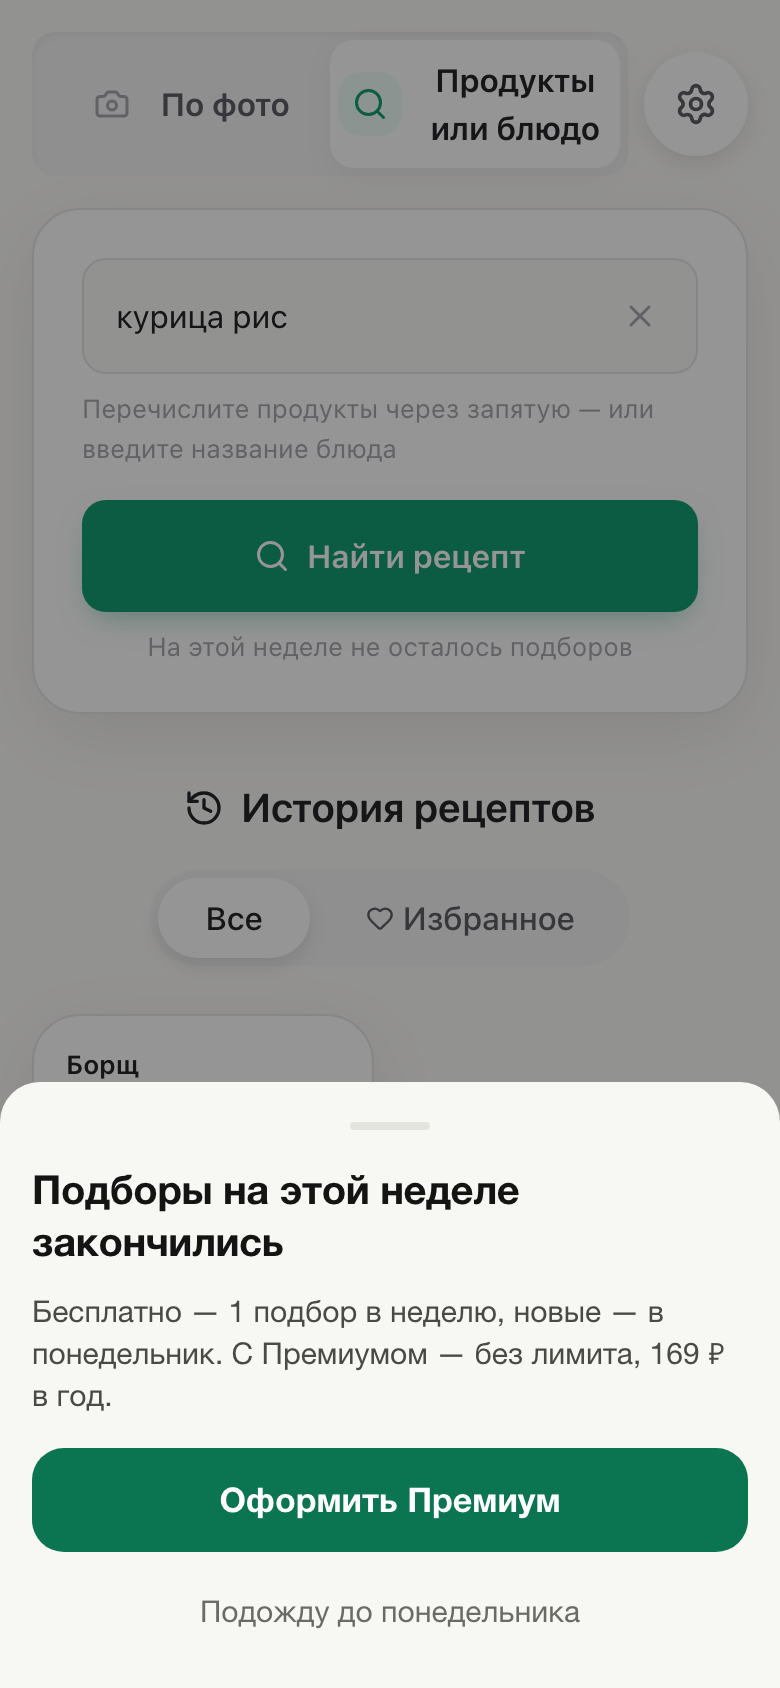
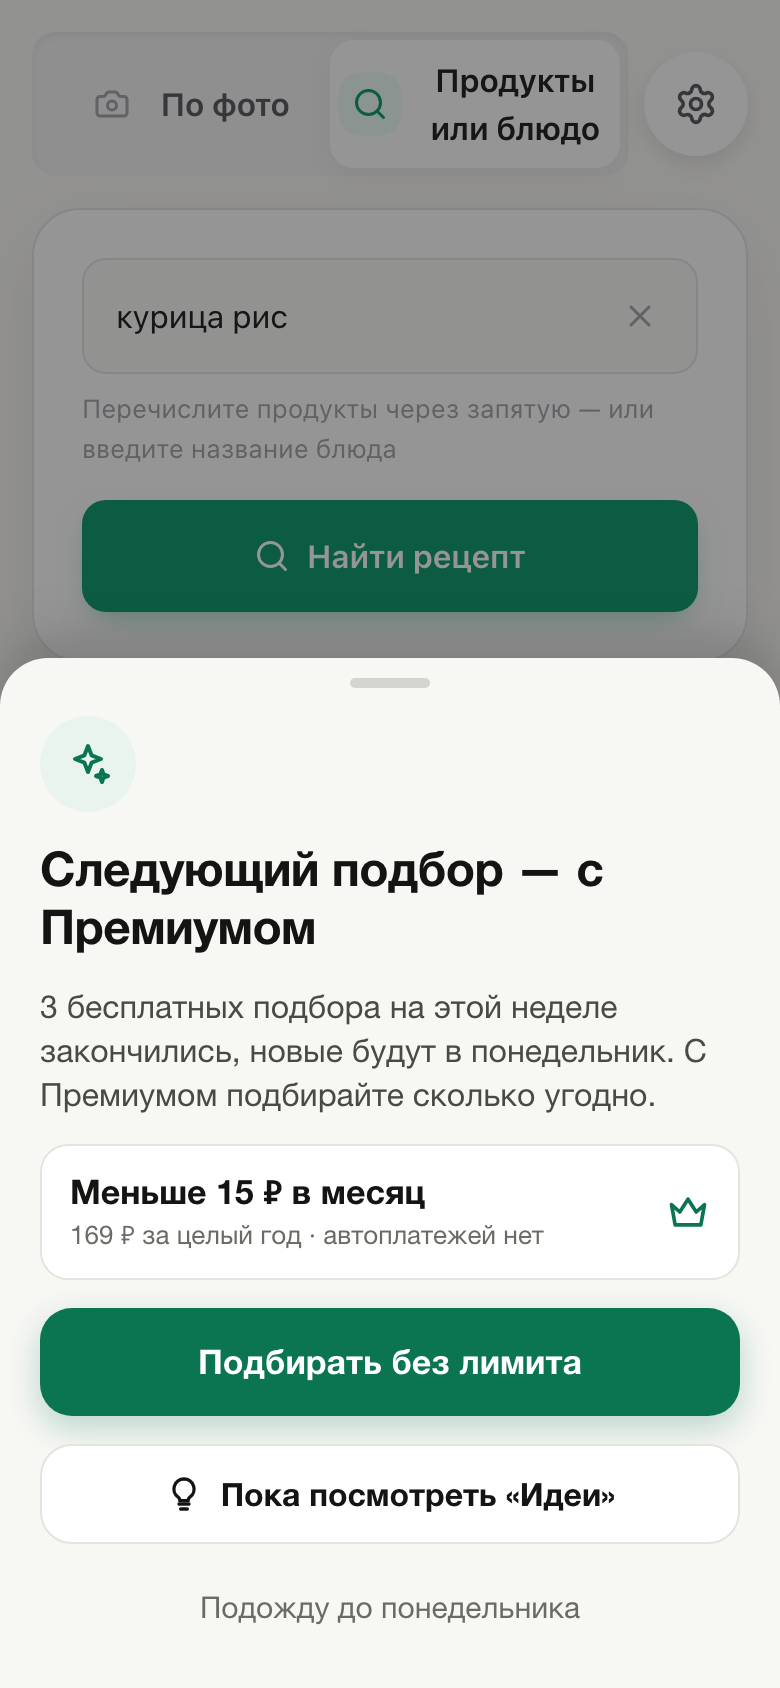
docs(premium): скриншоты шторки по новым макетам
Шторка сайта и iOS, экран поиска без счётчика, профиль «Бесплатный тариф»
и три кадра выезда шторки. Шторка снята при настоящей настройке «3
подбора в неделю» — лимит потрачен честно, запросами по слову из кэша
блюд, расход OpenAI нулевой.

diff --git a/docs/premium/screens/README.md b/docs/premium/screens/README.md
@@ -9,8 +9,8 @@
 | Файл | Что на нём |
 |---|---|
 | `01-premium.png` | `/premium` — два тарифа, «Год» выбран сразу |
-| `02-sheet-web.png` | Шторка «подборы закончились» на сайте: «С Премиумом — без лимита, 169 ₽ в год» |
-| `03-sheet-ios.png` | Та же шторка в среде `native-ios` — без слова «Премиум», без цен, без ссылок |
+| `02-sheet-web.png` | Шторка «подборы закончились» на сайте, по макету `limit-web.dc.html` |
+| `03-sheet-ios.png` | Та же шторка в среде `native-ios`, по макету `limit-ios.dc.html` — без слова «Премиум», без цен, без ссылок |
 | `05-profile-free.png` | Профиль без Премиума |
 | `06-profile-premium.png` | Профиль с Премиумом и историей покупок |
 | `07-premium-has.png` | `/premium` у человека, у которого Премиум уже есть |
@@ -19,10 +19,12 @@
 | `10-admin-users.png` | Админка, раздел «Пользователи» |
 | `11-admin-menu.png` | Меню админки после чистки: без «Банкетов», «Новостей» и «Советов» |
 | `12-admin-analytics.png` | «Аналитика» после чистки: живой журнал, без банкетных плиток и колонки |
+| `13-search-no-counter.png` | Экран поиска: под кнопкой «Найти рецепт» ничего нет — счётчик убран |
+| `14-anim-1.png`, `15-anim-2.png`, `16-anim-3.png` | Три кадра выезда шторки: снизу вверх, фон темнеет |
 
-**Шторка и профиль сняты при временной настройке «1 бесплатный подбор в
-неделю»** — иначе лимит не упереть без десятка генераций. После проверок
-настройка возвращена на 3, это подтверждено чтением значения обратно.
+**Шторка снята при настоящей настройке «3 подбора в неделю»**: лимит потрачен
+честно, тремя запросами по слову из кэша блюд — расход OpenAI нулевой, а текст
+на экране ровно тот, который увидят люди.
 
 Экраны `05`, `07`, `08`, `09`, `10` сняты до смены прайса и показывают прежние
 цены 49/390/990. Пересняты те, где цена видна и решает: `01`, `02`, `06`.
